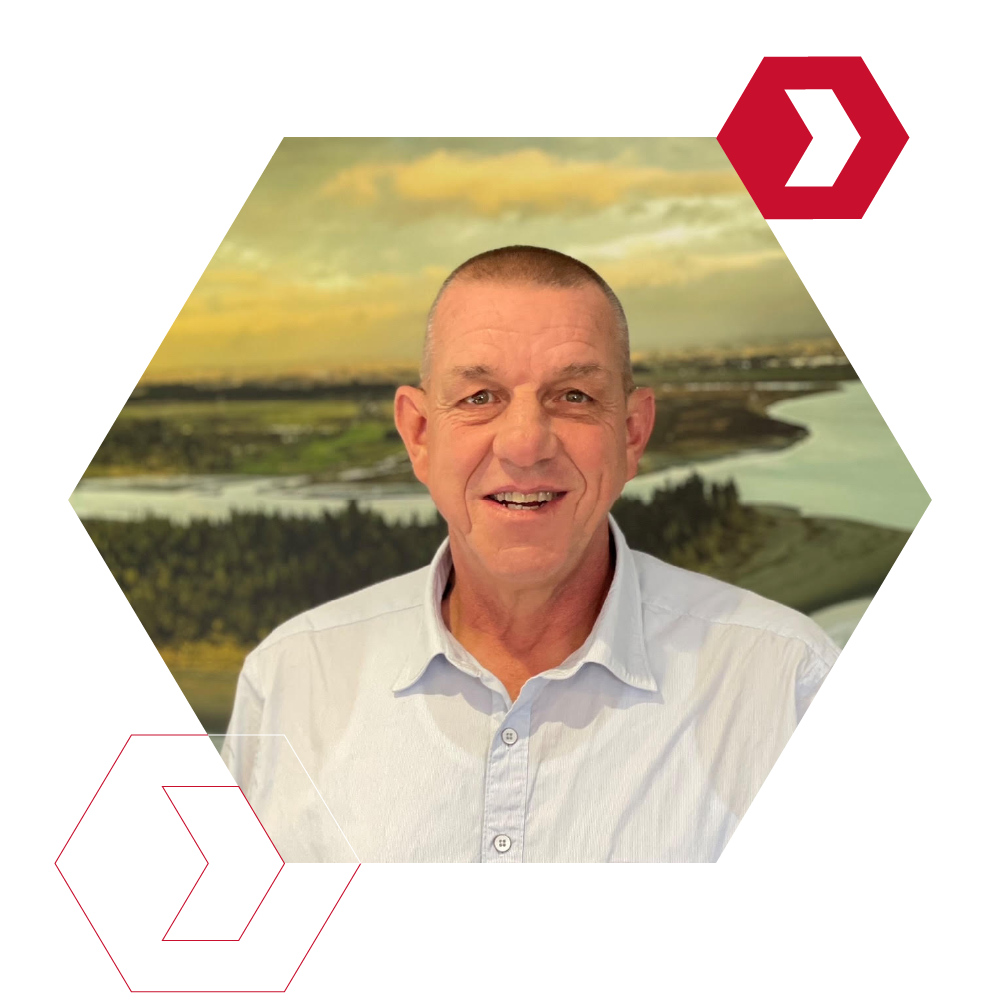
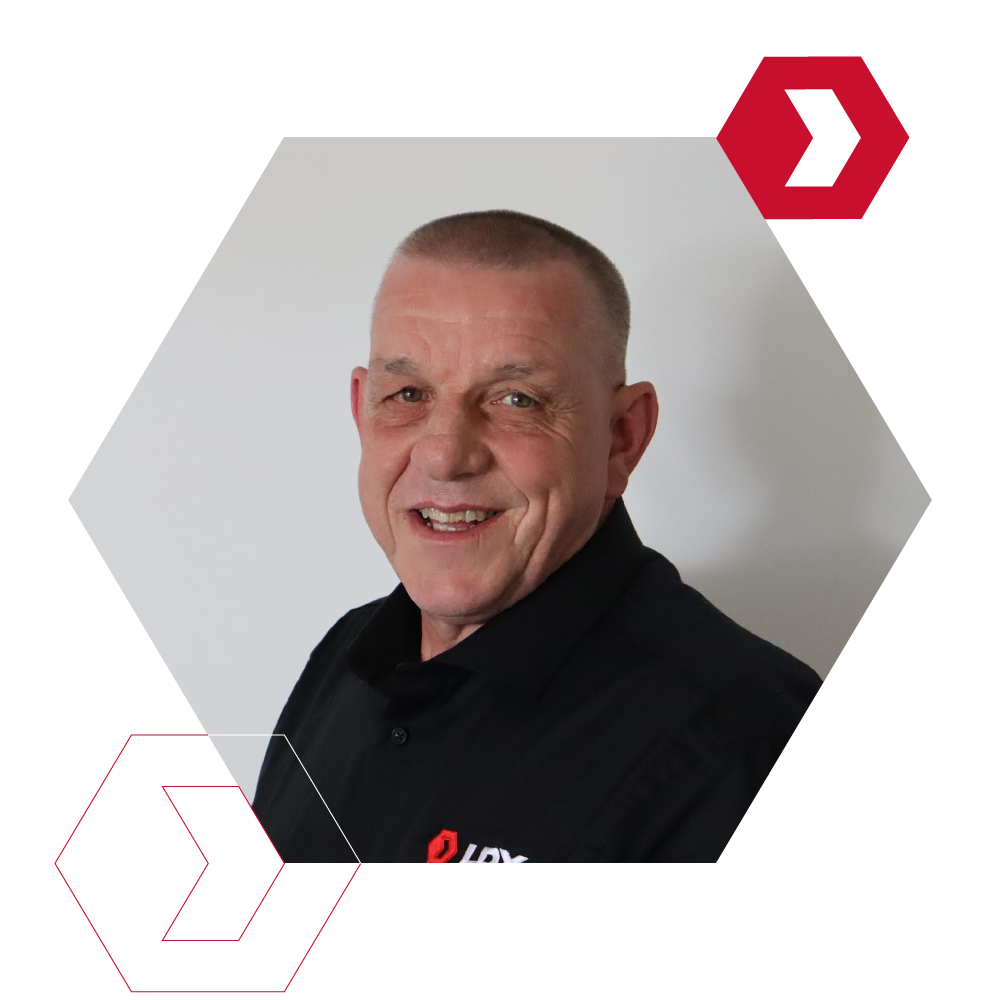
final edits LDX newsletter

diff --git a/teamldx-feb24.html b/teamldx-feb24.html
@@ -213,7 +213,7 @@
                
 
                 <div class="simpleFlex">
-                      <a href="#story1" class="brandColor pictureLink"><img src="/images/teamldx/feb24/img2@0.5x.jpg" alt=""><h5>Introduction - Joe Gradwell</h5></a>
+                      <a href="#story1" class="brandColor pictureLink"><img src="/images/teamldx/feb24/2-joe@0.5x.jpg" alt=""><h5>Introduction - Joe Gradwell</h5></a>
 
                       <a href="#story2" class="brandColor pictureLink"><img src="/images/teamldx/feb24/1@0.5x.jpg" alt=""><h5>Hero Staff Member - Vee MacLeod</h5></a> 
 
@@ -242,7 +242,7 @@
             <div class="editorial arrow ">
                 &nbsp;
             </div>
-            <span data-src="/images/teamldx/feb24/img2.jpg"></span>
+            <span data-src="/images/teamldx/feb24/2-joe.jpg"></span>
         </div>
 
 
